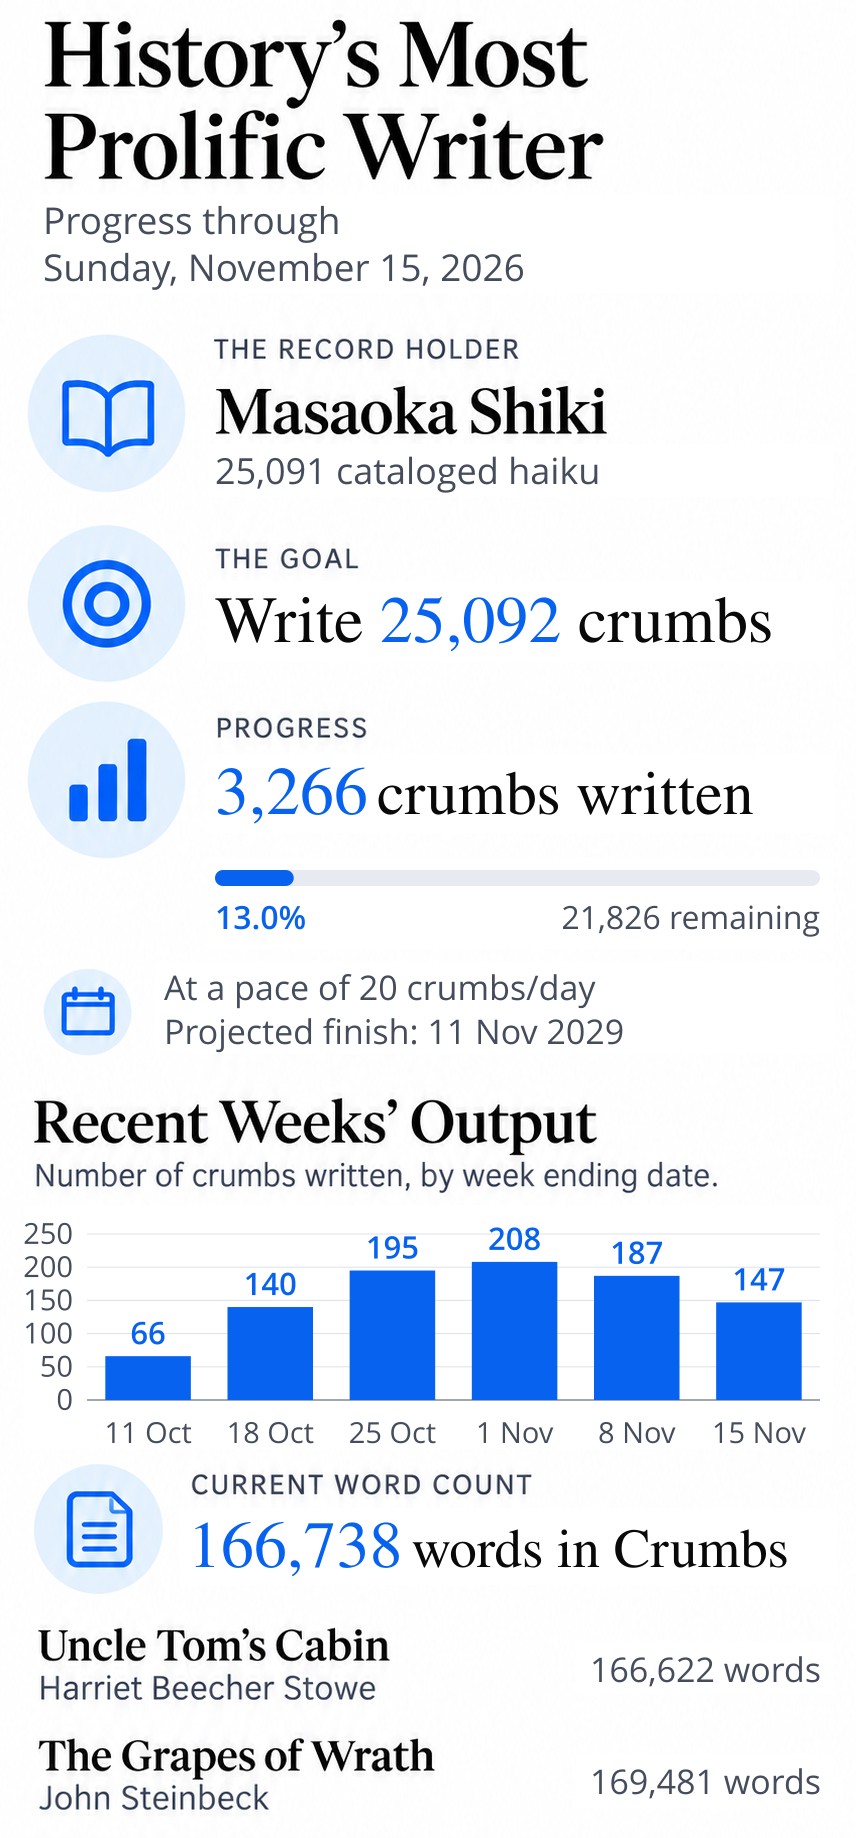
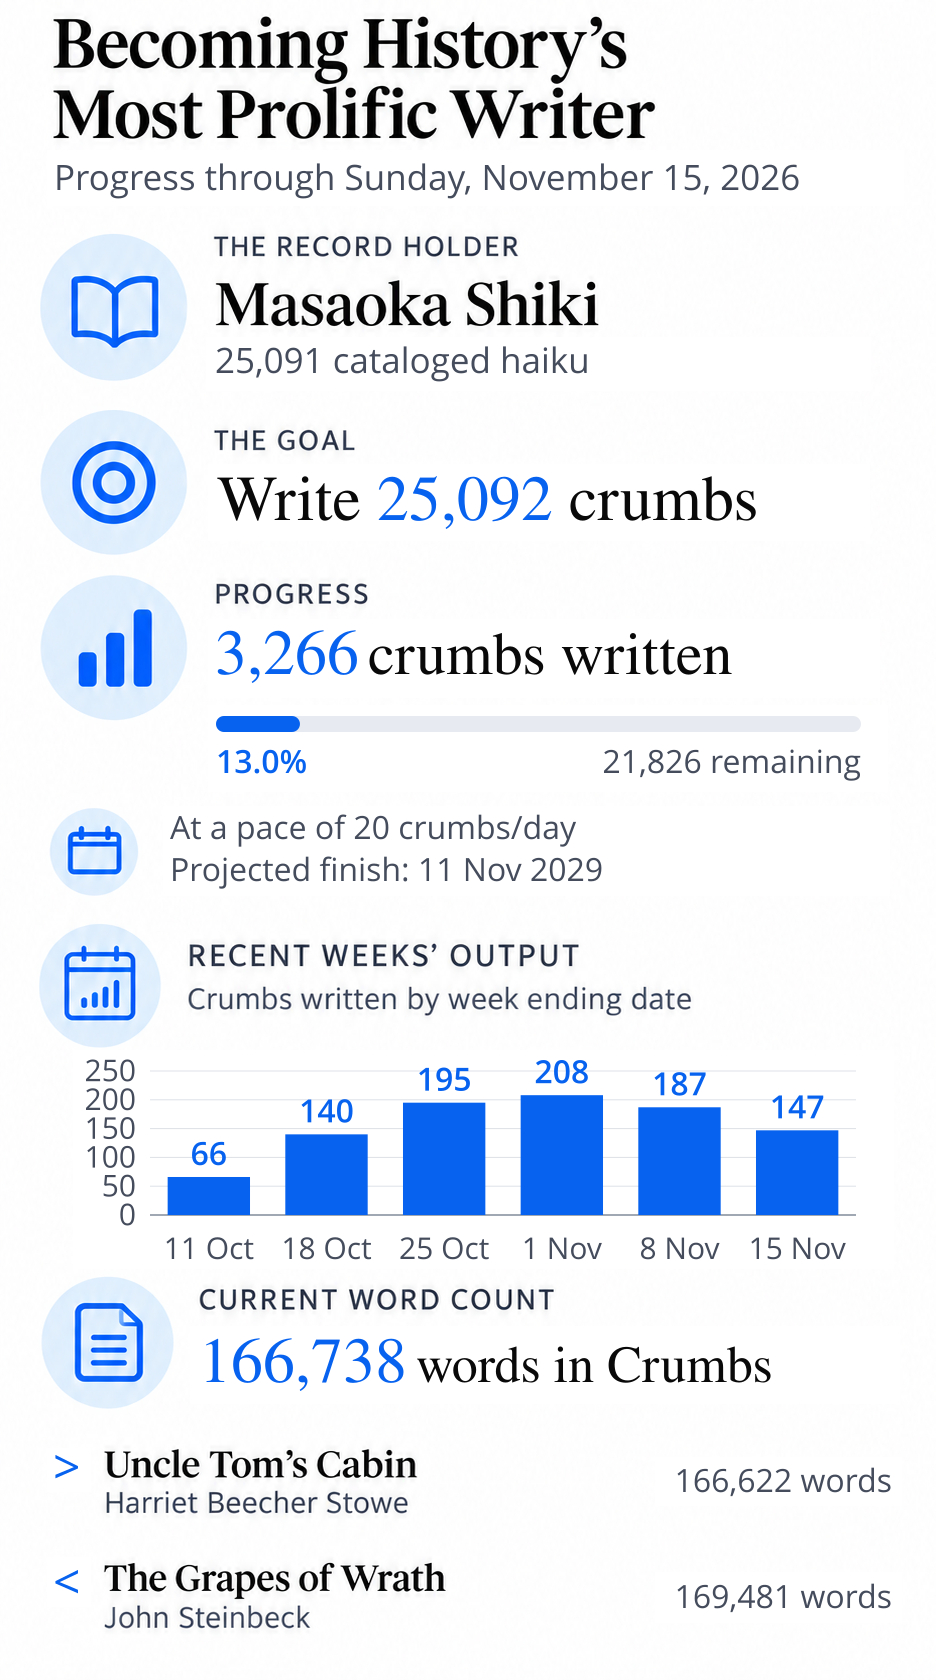
Refine Stats title, weekly panel and book comparisons

diff --git a/index.html b/index.html
@@ -145,7 +145,7 @@
 <p><em>Crumb 2225</em>: <strong>My Real Competitors</strong>: Worried, for once, about accuracy, I asked my assistant ChatGPT to conduct an exhaustive investigation about what concerns crumb 2169, and it concluded that of Mr. Takahama’s purported more than 30,000 haiku, only 22,189 have been documented, which turns his teacher, the also Japanese poet Masaoka Shiki, into the most prolific writer in history, with 25,091 catalogued 5-7-5 poems. Suddenly, for me to inherit this figurative throne, 25,092 crumbs will suffice.</p>
 <picture class="crumbs-stats-image">
   <source media="(max-width: 600px)" srcset="img/ProgressP.jpg" />
-  <img src="img/Progress.jpg" alt="History’s Most Prolific Writer: Progress through Sunday, November 15, 2026 - The Record Holder: Masaoka Shiki: 25,091 cataloged haiku - The Goal: Write 25,092 crumbs, one more than the record - Progress: 3,266 crumbs written; 13.0% completed; 21,826 remaining - At a pace of 20 crumbs/day: Projected finish 11 Nov 2029 - Weekly Output: Number of crumbs written, by week ending date: 11 Oct 2026 = 66, 18 Oct 2026 = 140, 25 Oct 2026 = 195, 1 Nov 2026 = 208, 8 Nov 2026 = 187, 15 Nov 2026 = 147 - Current Word Count: Crumbs: 166,738 words; Harriet Beecher Stowe’s Uncle Tom’s Cabin: 166,622 words (Crumbs: 116 words ahead); John Steinbeck’s The Grapes of Wrath: 169,481 words (Crumbs: 2,743 words to go)" />
+  <img src="img/Progress.jpg" alt="Becoming History’s Most Prolific Writer: Progress through Sunday, November 15, 2026 - The Record Holder: Masaoka Shiki: 25,091 cataloged haiku - The Goal: Write 25,092 crumbs, one more than the record - Progress: 3,266 crumbs written; 13.0% completed; 21,826 remaining - At a pace of 20 crumbs/day: Projected finish 11 Nov 2029 - Weekly Output: Number of crumbs written, by week ending date: 11 Oct 2026 = 66, 18 Oct 2026 = 140, 25 Oct 2026 = 195, 1 Nov 2026 = 208, 8 Nov 2026 = 187, 15 Nov 2026 = 147 - Current Word Count: Crumbs: 166,738 words; Harriet Beecher Stowe’s Uncle Tom’s Cabin: 166,622 words (Crumbs: 116 words ahead); John Steinbeck’s The Grapes of Wrath: 169,481 words (Crumbs: 2,743 words to go)" />
 </picture>
 
 <h2 id="short-faq">What Is in It for You?</h2>

diff --git a/scripts/stats-image-prompts.md b/scripts/stats-image-prompts.md
@@ -1,87 +1,67 @@
 # Stats image design
 
-The desktop and phone artwork was created with the built-in image tool using the existing main-branch Stats images as visual references. The main branch was not changed.
+The desktop and phone artwork was revised with the built-in image tool using the accepted development images from commit b46f0100a0b0cfe0c237d52ea280dc1f6b260a74. The original main-branch icon and serif style is retained. Main was not changed.
 
-Reference commit: dab0e8831ca8c1b01a64cdc898902ce54a6cc446.
+The finished images are img/Progress.jpg (1536 × 1024) and img/ProgressP.jpg (936 × 1680). Both are complete JPGs at quality 100, including all text. The page does not overlay HTML text.
 
-The finished images are img/Progress.jpg (1536 × 1024) and img/ProgressP.jpg (856 × 1838). Both are complete JPGs at quality 100, including all visible text. The page does not overlay HTML text.
+The image tool creates the composition, title, headings, book titles, author names, and icons. scripts/finish-stats.cjs typesets numeric rows from stats-data.json, draws the exact smaller chart and progress bar, and selects the blue comparison signs from the word totals. The script preserves the image-tool artwork. With no artwork arguments, it uses the existing finished JPGs as its base.
 
-The image tool creates the composition, title, headings, book titles, and icons. scripts/finish-stats.cjs typesets every numeric row from stats-data.json and draws the exact weekly chart and progress bar. It preserves the image-tool artwork. Running it with no artwork arguments uses the existing finished JPGs as its base. The old full-image code renderer has been removed.
+## Desktop revision prompt
 
-## Desktop generation prompt
+Edit this DESKTOP Stats image with a restrained editorial refinement. Preserve the established serif typography, cobalt blue, gray sans serif labels, pure white background, and illustrated blue icons in pale blue circular discs. The left panels are approved: keep THE RECORD HOLDER, THE GOAL, PROGRESS and the compact pace note, including their icons, hierarchy, positions and spacing, unchanged as faithfully as possible. No borders, horizontal framing rules, cards or shadows.
 
-Use case: style-transfer / editorial design.
-Asset: a finished-looking desktop Stats image for a literary website, landscape, ideally 1800 × 1200. Image 1 is the ORIGINAL approved desktop design, image 2 is its approved phone counterpart. These are the visual references. Revise this visual language; do not replace it with a generic dashboard.
+Only these changes:
+HEADER: replace title with the exact all-black text "Becoming History’s Most Prolific Writer". Keep it on one line across the width, in the same serif style, slightly smaller as needed. Move the entire subtitle BELOW the title, left-aligned, on ONE continuous line:
+"Progress through Sunday, November 15, 2026"
+Use one consistent gray sans-serif font and size throughout that single line. Keep header comfortably separated from the first body panels, without pushing the left panels down.
 
-Preserve the refined regular-weight black serif typography from the references, readable gray sans-serif supporting type, luminous cobalt-blue accents, pure white background, and especially the blue book, target, rising-bars, and calendar icons in soft pale-blue circles. Restore all four recognizable icons. No bold grotesk lettering, heavy headline weight, card boxes, shadows, decorative flourishes, or top/bottom horizontal border rules. No framing lines. Avoid tiny text. Elegant and immediately readable when displayed at 980px wide. Tight sensible spacing within each fact; balanced breathing room between sections.
+RIGHT TOP PANEL: replace the current oversized serif heading with a gray sans-serif uppercase label "RECENT WEEKS’ OUTPUT", exactly the same style and scale as "THE RECORD HOLDER" and "CURRENT WORD COUNT". Add a LARGE round pale-blue icon to its left, similar in diameter to the left-side book and target discs (about150px at this1536px width). The new icon should be a cobalt outline of a calendar containing a small bar chart. To the right of the icon, below the uppercase label, use a smaller gray subtitle: "Crumbs written by week ending date". It can break into two lines if needed.
+Below this header, reserve a clean blank white rectangle for a smaller precise chart. Do NOT draw bars, axes, tick labels, dates, values or any chart in this rectangle. It will be added accurately afterward. The reserved region should be about550px wide and230px high, inside the right column; aim for its top around y350 and bottom around y580. Preserve balanced padding and space before the word-count panel.
 
-Header: title in black, verbatim "History’s Most Prolific Writer", elegant serif, regular weight. Two lines permissible to maintain a spacious header. To its right, gray sans-serif subtitle on two lines, both exactly the same size and weight:
-"Progress through"
-"Sunday, November 15, 2026"
-No line under header.
-
-Body: two balanced columns. Left column contains the three principal icon sections from the reference, in this order:
-1. book icon, small gray "THE RECORD HOLDER", "Masaoka Shiki" in prominent regular serif, then "25,091 catalogued haiku".
-2. target icon, small gray "THE GOAL", then "Write 25,092 crumbs", the number blue.
-3. rising-bars icon, small gray "PROGRESS", then "3,266 crumbs written", blue number and the descriptor directly beside it, not far below. Below, reserve a clean white empty band for a progress bar and its labels, to be inserted accurately later. Do not draw any progress bar or progress labels.
-Directly beneath this progress section, a COMPACT calendar icon and modest supporting note: "AT A PACE OF" small, "20 crumbs/day", "Projected finish: 11 Nov 2029". This is secondary, much smaller and less tall than the record holder and goal. Not a large panel or important headline.
-
-Right column:
-Top: regular serif heading "Recent Weeks’ Output"; smaller gray subtitle "Number of crumbs written, by week ending date." Then leave a LARGE completely blank white rectangular plot region underneath. Do NOT draw bars, axes, grid lines, dates, values, or any chart. A mathematically exact chart will be inserted later. Design the blank region about 38% of overall image width and 29% of image height, with ample surrounding clearance.
-Bottom: a matching smaller blue document/word-count icon, section label "CURRENT WORD COUNT".
-Display "166,738 words in Crumbs" with blue number, descriptor close beside it, smaller than the main title.
-Below that, two compact literary comparisons with clear spacing, regular typography:
-"Uncle Tom’s Cabin"
+RIGHT LOWER PANEL: keep "CURRENT WORD COUNT" (WORD, not WORLD) and the figure "166,738 words in Crumbs" with descriptor close to the number. Keep the document icon and coordinate it visually with the new weekly icon. Improve the spacing within this panel and its separation from the weekly panel.
+Make the two book titles about25% smaller than currently, and their author names about15% smaller. Use regular elegant serif for titles and gray sans serif for authors, without heavy black emphasis. Add a blue GREATER-THAN sign ">" immediately BEFORE "Uncle Tom’s Cabin", and a blue LESS-THAN sign "<" immediately BEFORE "The Grapes of Wrath". These are clear mathematical signs, not arrows or chevrons pointing to links. Each sign is part of the corresponding book comparison.
+Exact comparison text:
+"> Uncle Tom’s Cabin"
 "Harriet Beecher Stowe"
 "166,622 words"
-"The Grapes of Wrath"
+"< The Grapes of Wrath"
 "John Steinbeck"
 "169,481 words"
-Make these two book entries easy to scan, with authors and word totals in gray sans serif; titles in serif. They may be two rows with counts aligned on the right. Do NOT add comparison charts, difference numbers, percentages, ornaments or extra copy.
+Keep word totals neatly aligned on the right. Each book title and its author form a tight pair, with more space between the two books. Avoid giant titles or wide gaps between a title and its author.
 
-The numeric rows above serve as typographic position guides and will be deterministically re-typeset for exactness; provide a smooth pure white background around every metric so that process is clean. Keep everything flat, front-on, crisp, and unboxed. No top or bottom rules. Minimal outer padding. All text completely within canvas. Coherent design closely related to the two supplied originals, with comfortable lightness and a clear hierarchy.
+Output a full1536×1024 desktop graphic. Numeric rows are visual position guides and will be typeset exactly afterward; keep their backgrounds pure white. Preserve the approved left-side layout. Improve coherence in the right column and make the two right-panel headings match the left-panel headings. All text within the canvas.
 
-## Desktop refinement prompt
+## Desktop alignment refinement
 
-Edit only the AT A PACE OF section at the bottom left of this Stats image. Every other part of the image, including the blank chart area, all typography, title, subtitle, icons, figures, word count, and white background, must remain unchanged.
-The pace section is still too visually important. Reduce its calendar icon and pale-blue circular background to half its current diameter, keeping its center horizontally at about x115 (image width1536). Replace the three-line pace display with two modest gray sans-serif lines at about 29px, aligned with the left column text:
-"At a pace of 20 crumbs/day"
-"Projected finish: 11 Nov 2029"
-No oversized blue number, no uppercase pace heading. Calendar icon now about65px across. Keep the note around y882–950. This is a small supporting note under the more important record, goal and progress. Maintain all other pixels and composition as faithfully as possible. No horizontal rules.
+Make one precise refinement to this desktop image: align the two RIGHT-HAND panel headers. Change only the new weekly-output icon, heading and subtitle; every other part must stay unchanged.
+Move the weekly calendar-and-bars icon so its center aligns horizontally with the document icon below it, around x866. Keep its large pale-blue circular disc; position it around y205–335.
+Set "RECENT WEEKS’ OUTPUT" in exactly the SAME font, size, weight and letter spacing as "CURRENT WORD COUNT", not larger. Align both headings to the same left edge, x948. Put the weekly heading baseline around y220, and its smaller gray subtitle "Crumbs written by week ending date" below it around y266. Keep all text within the right column. Preserve the entirely blank chart space below and above the word-count panel.
+Do not change the main title or single-line subtitle, left panels, pace note, book titles, authors, comparison signs, figures, colors, or white background. No horizontal rules.
 
-## Phone generation prompt
+## Phone revision prompt
 
-Use case: style-transfer / editorial design.
-Create the PHONE version of the supplied desktop Stats design. Image 1 is the new desktop design and controls its visual style. Image 2 is the original phone version, whose stacked composition and blue icons must be retained. Produce one tall portrait image, ideally 1024 × 2200, white background, flat front-on, crisp polished typography. This will display at 358px wide, so keep all text generously sized and legible. Minimal side padding, no excessive blank margins.
+Edit the PHONE Stats image (image1) to match the refined desktop artwork (image2). Preserve image1's established serif style, cobalt blue and gray palette, pure white background, and soft pale-blue circles with blue book, target, progress, calendar and document icons. Preserve the accepted record-holder, goal, progress and compact pace sections with their existing typography, icon sizes and hierarchy. No borders, framing lines, cards or shadows.
 
-Match image 1's regular serif typography, blue key numbers, gray sans-serif supporting type, and soft pale blue circles with cobalt icons. Retain book, target, rising-bars, and calendar icons from image 2. No heavy sans-serif headlines, no cards, borders, dividers, horizontal framing rules, or shadows. Clear hierarchy: record holder and goal are primary; pace is secondary and COMPACT.
+HEADER: exact all-black serif title, on exactly TWO lines:
+"Becoming History’s"
+"Most Prolific Writer"
+Keep the entire title within the narrow canvas, reduce its size from image1 if necessary. Immediately BELOW it put this exact subtitle on ONE line:
+"Progress through Sunday, November 15, 2026"
+Use the same gray sans-serif font throughout the line. Make the single-line subtitle as large as fits, around29px on this856px-wide image. Do not split it or omit any word. Keep a moderate gap to the first panel; avoid a large empty header.
 
-Top title all black in a regular elegant serif, TWO lines exactly:
-"History’s Most"
-"Prolific Writer"
-Below, subtitle in gray sans serif, two lines of identical font, weight and size:
-"Progress through"
-"Sunday, November 15, 2026"
+RECORD HOLDER, GOAL, PROGRESS, PACE: keep these approved sections, their content and proportionate spacing. They can move upward slightly together if the shorter subtitle frees space. Preserve the small calendar icon and modest two-line pace note.
 
-Stack the following sections:
-1. Book icon with "THE RECORD HOLDER", prominent "Masaoka Shiki", and "25,091 catalogued haiku".
-2. Target icon with "THE GOAL", and "Write 25,092 crumbs" on one line if possible; number blue.
-3. Rising-bars icon with "PROGRESS", and "3,266 crumbs written" on one line, number blue and label directly adjacent. Beneath this row leave a clean white band of 80px height for an accurate progress bar and its labels, inserted later. Do NOT draw progress bar or progress percentage/remaining labels.
-4. A small calendar icon, ONLY ABOUT HALF the diameter of the three icons above, with a two-line supporting note:
-"At a pace of 20 crumbs/day"
-"Projected finish: 11 Nov 2029"
-The ENTIRE pace section should be compact, no large headline, no overlarge blue 20. Font around 36px at 1024px wide, roughly half the main figure size. Use at most 100px height.
-5. "Recent Weeks’ Output" in regular serif, then "Number of crumbs written, by week ending date." in legible gray sans serif. Leave a completely blank white rectangle below for a precise chart, about 90% canvas width and 300px high at 1024px width. Do NOT draw any axes, grids, bars, values or date labels. The blank chart will be added later.
-6. Matching word-count/document icon, "CURRENT WORD COUNT", then "166,738 words in Crumbs". Blue number, descriptor directly beside it at a slightly smaller size. Readable at phone width.
-7. Two clearly separated comparison rows, book titles serif, supporting text gray sans-serif. Exact text:
-"Uncle Tom’s Cabin"
+WEEKLY PANEL: make this a matching icon-led panel, like PROGRESS and CURRENT WORD COUNT. Add a large pale-blue circular disc containing a blue calendar with small bars inside, matching the NEW weekly icon in image2. Its diameter should be about the same as the book and target icon discs.
+To the right use gray uppercase sans-serif "RECENT WEEKS’ OUTPUT", same scale and weight as the other panel labels. Below it use a smaller gray subtitle "Crumbs written by week ending date", wrapping into two lines if necessary.
+Remove the old large serif heading. Below the icon/title block leave a clean blank white plot rectangle, modestly smaller than the old chart, about700px wide and230px tall including future axis labels. Do NOT draw chart bars, axes, grid lines, date labels or values. The mathematically exact chart will be added afterward. Ensure a comfortable visible gap between the blank plot region and the next panel.
+
+WORD COUNT PANEL: retain uppercase "CURRENT WORD COUNT" (WORD, not WORLD), its document icon, and the blue number "166,738" close beside "words in Crumbs". Below, reduce both book titles and authors compared with image1: titles about34–36px regular serif, authors around30px gray sans-serif at856px image width. Add a clear blue greater-than symbol ">" directly before "Uncle Tom’s Cabin", and a clear blue less-than symbol "<" directly before "The Grapes of Wrath".
+Exact entries:
+"> Uncle Tom’s Cabin"
 "Harriet Beecher Stowe"
 "166,622 words"
-and:
-"The Grapes of Wrath"
+"< The Grapes of Wrath"
 "John Steinbeck"
 "169,481 words"
-Use a clear compact layout with the word totals aligned to the right if space allows, or a readable second line. No tiny text.
-
-All numbers are typographic position guides and will be deterministically typeset to ensure accuracy; keep their background smoothly white. Use consistent alignment, modest spacing within each fact and comfortable spacing between groups. Strong resemblance to the supplied original phone image. Beautiful restrained editorial design, without ornamental additions or excess whitespace. All copy must fit.
-
+Make word totals align neatly at the right; keep each title and its author close together. Separate the two comparison entries with breathing room. Symbols are mathematical > and <, not link arrows. Retain the overall established editorial look and make the two lower panels more coherent and less dominant. All text fully within the canvas.
+Use a portrait aspect ratio similar to image1 (about856×1838). Numeric rows are only typographic guides and will be accurately typeset afterward. Keep backgrounds around them pure white.
